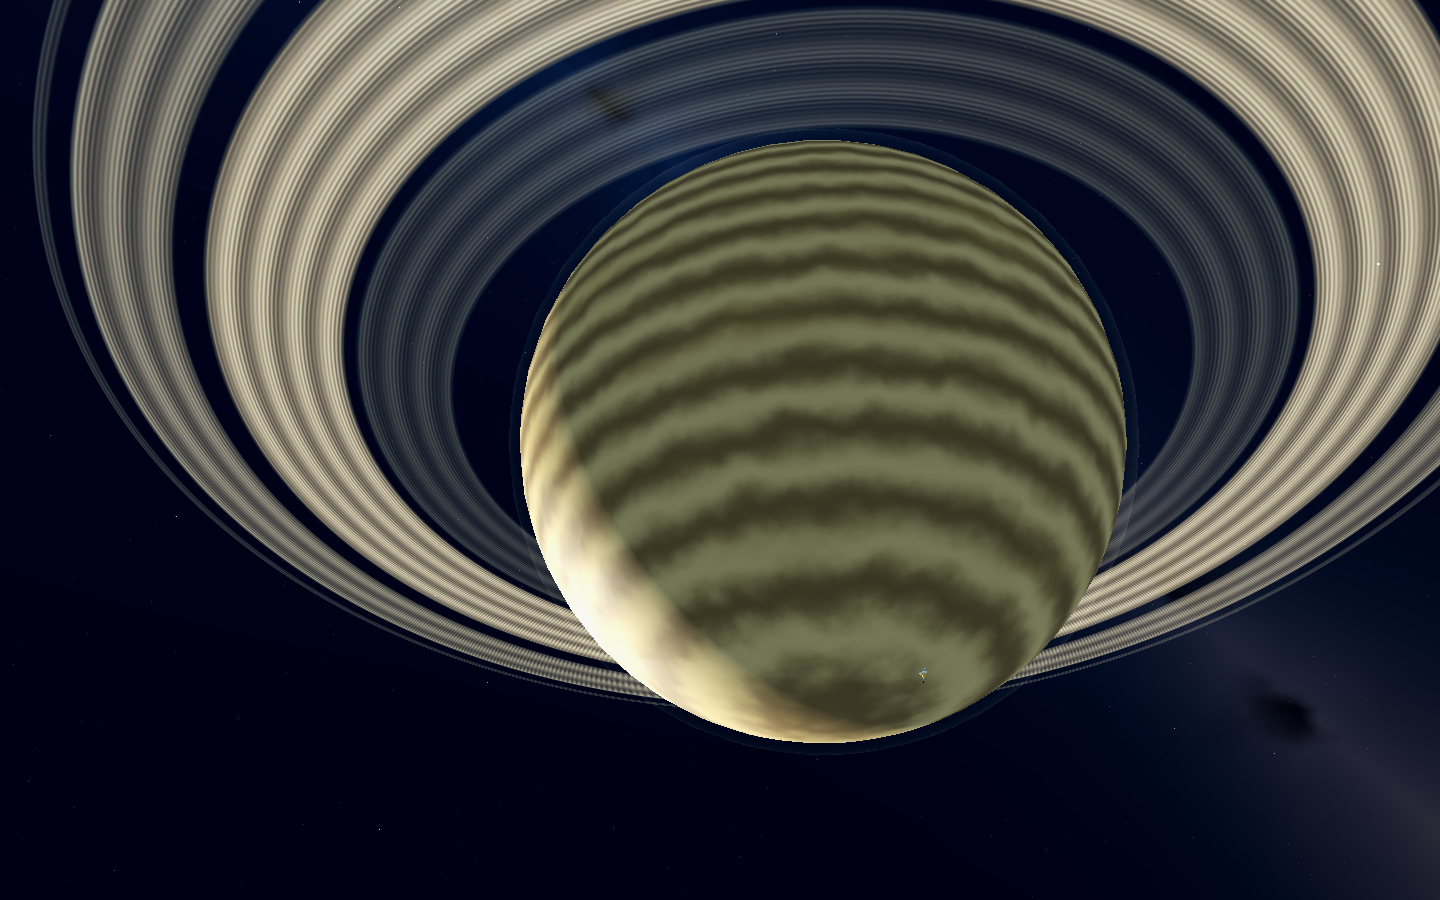
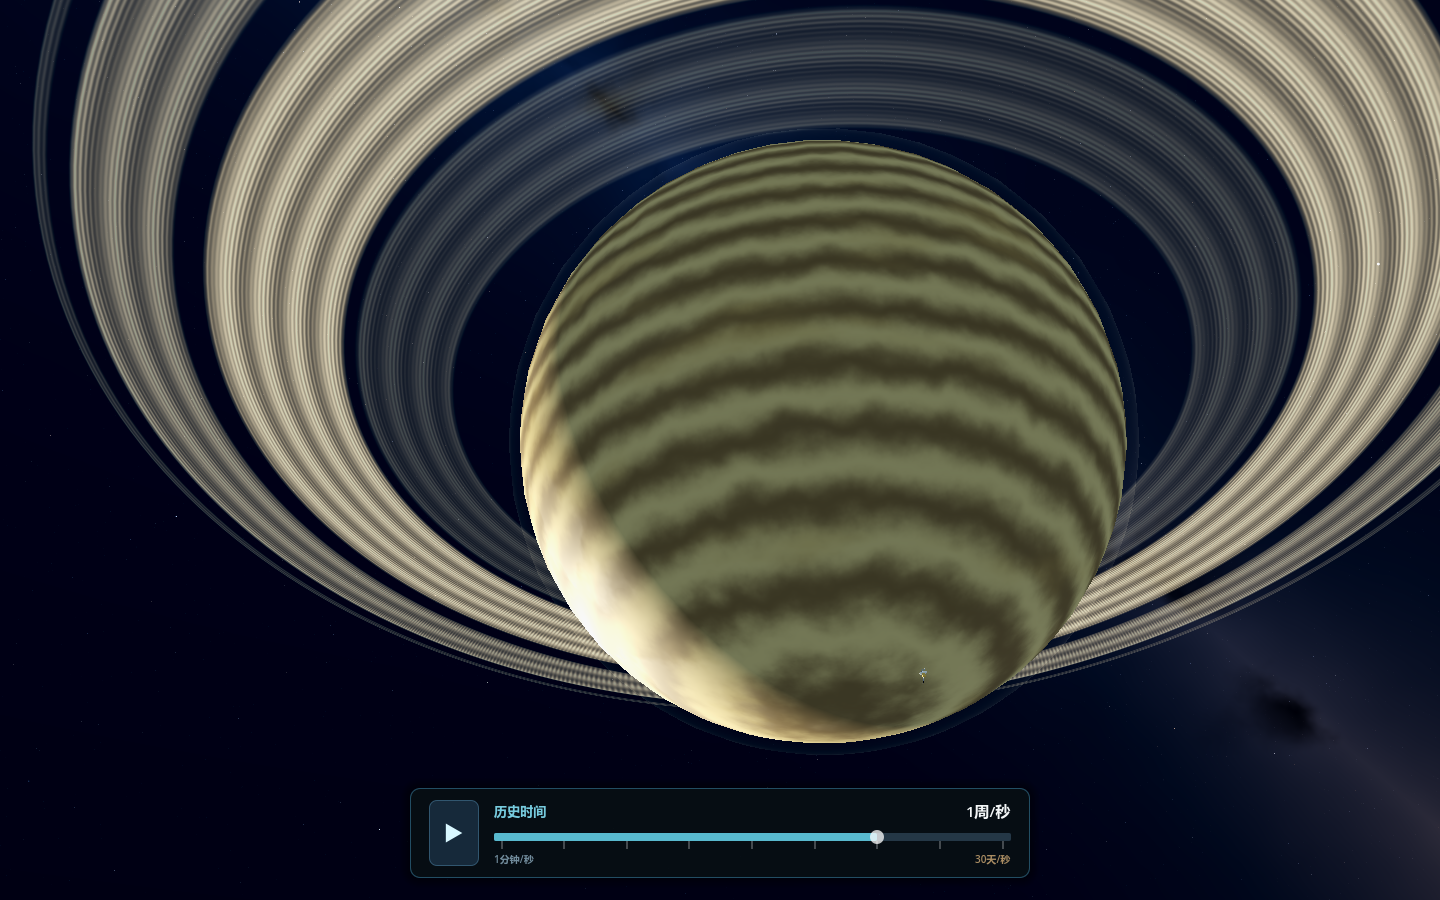
feat: add interactive time rate slider

Changed region(s): [[0.2812, 0.8711, 0.7188, 0.9644]]

diff --git a/IMPLEMENTATION_REPORT.md b/IMPLEMENTATION_REPORT.md
@@ -1,11 +1,13 @@
 # PhyzBox 物理库与游戏前端实施报告
 
 日期：2026-08-11
-状态：已完成物理库、旅行者历史太阳系垂直切片、真实星空、无 HUD 交互、自动测试与 Windows 构建链。
+状态：已完成物理库、旅行者历史太阳系垂直切片、真实星空、极简时间控制、自动测试与 Windows 构建链。
 
 ## 2026-08-11：旅行者太阳系重构
 
-默认游戏入口已从《余烬航线》文字驾驶舱切换到旅行者 1 号历史航行。此次重构删除了主场景全部 `CanvasLayer`、按钮、任务卡、下拉框和时间轴代码；日期、状态和倍率只占用操作系统窗口标题。玩家通过键鼠直接控制历史播放、时间倍率、事件跳转、镜头和太阳系总览。
+默认游戏入口已从《余烬航线》文字驾驶舱切换到旅行者 1 号历史航行。此次重构删除了原有任务卡、下拉框、大段遥测文本和时间轴；玩家通过紧凑时间条与键鼠直接控制历史播放、时间倍率、事件跳转、镜头和太阳系总览。
+
+后续可用性验收发现，仅依赖 `+ / -` 和窗口标题调整时间不够直观，因此恢复了唯一的紧凑屏幕控件：底部九档时间流速拖动条。它持续显示当前倍率，并与播放按钮、`Space`、`+ / -` 双向同步；没有恢复任务卡、大段文字或遥测面板。
 
 历史状态来自 JPL NAIF 的 DE440s、Voyager 1 和 Voyager 2 SPK 内核。导入器把 1977–2030 状态转换为可审计的 `PHYZEPH2` 二进制数据；运行时保留双精度，在采样间执行位置 / 速度一致的三次 Hermite 插值。飞掠窗口使用小时级采样，其余阶段使用日 / 周级采样。
 
@@ -19,7 +21,7 @@
 - 默认“任务可视化”色彩使用 Filmic 曝光、暗部抬升与适度饱和度增强；`C` 键可切换低曝光物理观察。该分级只作用于显示，不改变星历状态。
 - 火星、土星、海王星分别建立红褐、浅金、深钴蓝程序化色域；纯黑天空改为低亮度深海军蓝，土星环改为带卡西尼缝的程序化薄环。
 
-新增 `voyager_test_runner.gd`，验证官方星历加载、地球起点距离、木星飞掠距离、时间倍率、事件跳转、太阳系总览、83,337 颗星表实例、显示分级和行星色域，以及默认场景不存在屏幕 UI 层。
+新增 `voyager_test_runner.gd`，验证官方星历加载、地球起点距离、木星飞掠距离、时间拖动条与快捷键同步、事件跳转、太阳系总览、83,337 颗星表实例、显示分级和行星色域，以及默认场景只保留紧凑时间控制层。
 
 ## 最终架构
 

diff --git a/README.md b/README.md
@@ -10,9 +10,9 @@
 
 这是一个从 1977 年开始、由真实星历驱动的太阳系航行体验。当前主模式沿旅行者 1 号的历史轨迹回放：地球、月球、行星、太阳和探测器的位置与速度来自 JPL NAIF SPICE 内核，不是按关卡脚本摆放的动画。
 
-![旅行者 1 号木星飞掠](docs/images/voyager-jupiter-encounter.png)
+![旅行者 1 号木星飞掠与时间流速条](docs/images/voyager-jupiter-encounter.png)
 
-主画面已经删除全部 HUD 面板、按钮、任务卡和大段文字。日期、播放状态与倍率只显示在操作系统窗口标题；游戏画面只留下天体、旅行者号、真实星空和可选的太阳系轨道总览。
+主画面已经删除任务卡、大段文字和遥测面板，只在底部保留紧凑的播放 / 时间流速条。日期、播放状态与倍率也会显示在操作系统窗口标题；主要画面留给天体、旅行者号、真实星空和可选的太阳系轨道总览。
 
 ## 立即运行
 
@@ -37,7 +37,8 @@
 启动时位于 1977-09-05 的第一段官方旅行者 1 号星历附近。此时探测器仍非常靠近地球，因此地球会越过画面边缘；这不是被放大的游戏图标，而是按真实半径与距离得到的角直径。
 
 - `Space`：播放 / 暂停历史
-- `+` / `-`：调整时间流速（每秒 1 分钟至 30 天）
+- 拖动底部时间条：选择并显示当前时间流速（每秒 1 分钟至 30 天）；接近飞掠自动减速时会同时显示实际生效速度
+- `+` / `-`：逐档提高 / 降低时间流速，和拖动条保持同步
 - `A`：开关接近历史事件时的自动减速
 - `M`：旅行者跟随镜头 / 太阳系总览
 - `C`：任务可视化色彩 / 物理曝光
@@ -101,7 +102,7 @@ python .\tools\import_hipparcos_stars.py
 .\scripts\build_all.ps1 -GodotTarget template_release -Jobs 4
 ```
 
-测试覆盖星历载入、历史距离、时间倍率、事件跳转、太阳系视图、真实星表数量，以及默认主场景不存在 `CanvasLayer` 屏幕界面。
+测试覆盖星历载入、历史距离、时间拖动条与快捷键同步、事件跳转、太阳系视图、真实星表数量，以及主场景只保留紧凑时间控制层。
 
 项目结构与物理库说明见 [godot/README.md](godot/README.md)、[libphyz/README.md](libphyz/README.md) 和 [IMPLEMENTATION_REPORT.md](IMPLEMENTATION_REPORT.md)。
 

diff --git a/godot/README.md b/godot/README.md
@@ -1,6 +1,6 @@
 # PhyzBox Godot 前端：旅行者太阳系
 
-Godot 4.6.3 主场景是无 HUD 的旅行者 1 号历史航行体验。默认入口为 `scenes/voyager_main.tscn`，运行时加载官方星历与 Hipparcos 星表；旧 `main.tscn` 任务驾驶舱保留用于 `libphyz` 集成和回归测试，但不再作为游戏首页。
+Godot 4.6.3 主场景是仅保留紧凑时间条的旅行者 1 号历史航行体验。默认入口为 `scenes/voyager_main.tscn`，运行时加载官方星历与 Hipparcos 星表；旧 `main.tscn` 任务驾驶舱保留用于 `libphyz` 集成和回归测试，但不再作为游戏首页。
 
 ## 运行
 
@@ -21,7 +21,8 @@ Godot 4.6.3 主场景是无 HUD 的旅行者 1 号历史航行体验。默认入
 | 输入 | 作用 |
 |---|---|
 | `Space` | 播放 / 暂停 |
-| `+` / `-` | 改变历史时间倍率 |
+| 拖动底部时间条 | 选择并显示当前时间流速 |
+| `+` / `-` | 逐档改变流速，并同步拖动条 |
 | `A` | 自动接近减速 |
 | `M` | 跟随视图 / 太阳系总览 |
 | `C` | 任务可视化色彩 / 物理曝光 |
@@ -32,7 +33,7 @@ Godot 4.6.3 主场景是无 HUD 的旅行者 1 号历史航行体验。默认入
 | `Home` | 回到 1977 起点 |
 | `Esc` | 退出 |
 
-窗口标题显示 UTC 日期、暂停 / 播放状态、当前倍率与色彩模式。默认“任务可视化”模式采用 Filmic 曝光、深海军蓝天空和可辨识的行星色域；按 `C` 切换到较低曝光的物理观察模式。两种模式只改变渲染，不改变星历或物理状态。场景本身不创建 `CanvasLayer`、按钮、面板或时间轴。
+窗口标题显示 UTC 日期、暂停 / 播放状态、当前倍率与色彩模式。画面底部只有一个半透明的时间控制条：可直接拖动九档流速，并持续显示当前倍率；播放按钮和 `Space`、拖动条和 `+ / -` 始终双向同步。默认“任务可视化”模式采用 Filmic 曝光、深海军蓝天空和可辨识的行星色域；按 `C` 切换到较低曝光的物理观察模式。两种模式只改变渲染，不改变星历或物理状态。
 
 ## 运行时结构
 

diff --git a/CHANGELOG.md b/CHANGELOG.md
@@ -2,6 +2,10 @@
 
 ## [Unreleased] — 2026-08-04
 
+### Time-control usability — 2026-08-12
+- Added a compact bottom time-rate slider with nine labeled speeds and synchronized keyboard/play controls
+- Displayed the effective automatic-slowdown rate beside the selected rate during close encounters
+
 ### Voyager historical solar system — 2026-08-11
 - Replaced the default campaign cockpit with a HUD-free Voyager 1 historical-playback scene
 - Imported JPL DE440s and official Voyager 1/2 SPK states for 1977–2030 with double-precision Hermite interpolation
